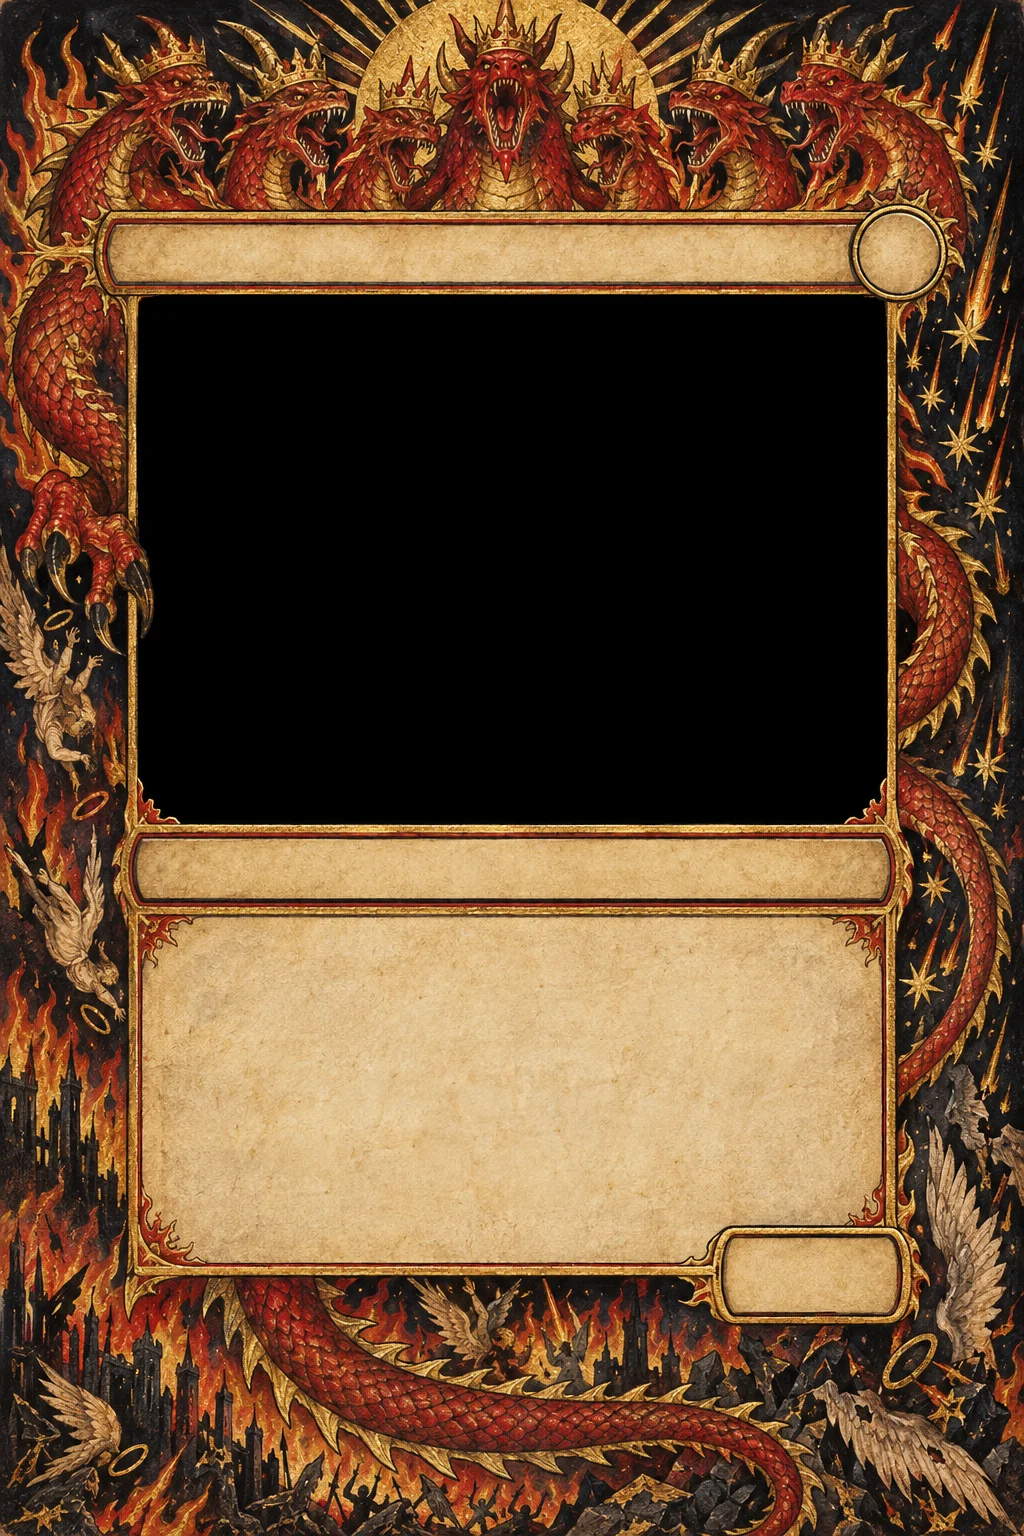
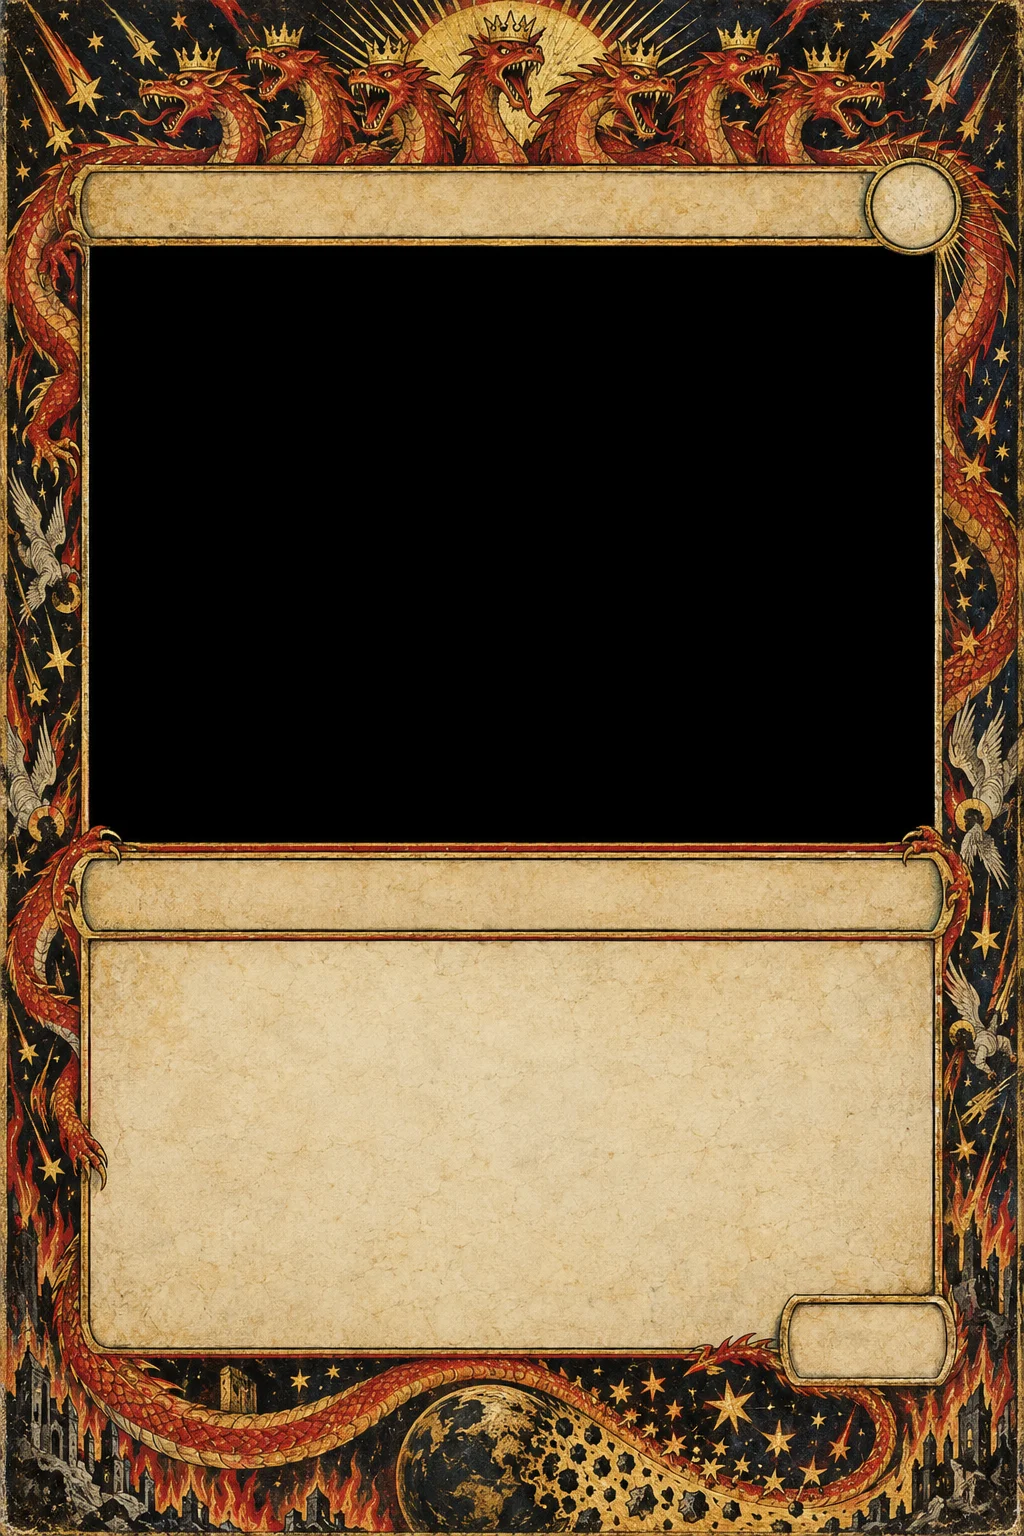
Act III Legendary frame: thin border so the art window matches the other rarities

diff --git a/art/build_manifest.py b/art/build_manifest.py
@@ -773,7 +773,10 @@ FRAMES['act3'] = {
                  'rearing over the top edge, its tail sweeping a third of the stars from the sky along one side; a burning '
                  'halo of golden light behind the art window, gold leaf everywhere, fire and falling stars. Colours: '
                  'blazing gold and deep crimson on black. Overwhelming and climactic, still hand-painted, never glossy or '
-                 '3D-rendered. ' + APOC_LOOK,
+                 '3D-rendered. IMPORTANT: the border is exactly as thin as on an ordinary card frame, so the art window '
+                 'and the text box are just as large as on the other rarities: the dragon\'s body is drawn slim and '
+                 'tight along the outer edges only, and its seven heads are small, kept inside the thin band above the '
+                 'title bar; nothing pushes the title bar, art window or text box inwards or downwards. ' + APOC_LOOK,
 }
 
 
